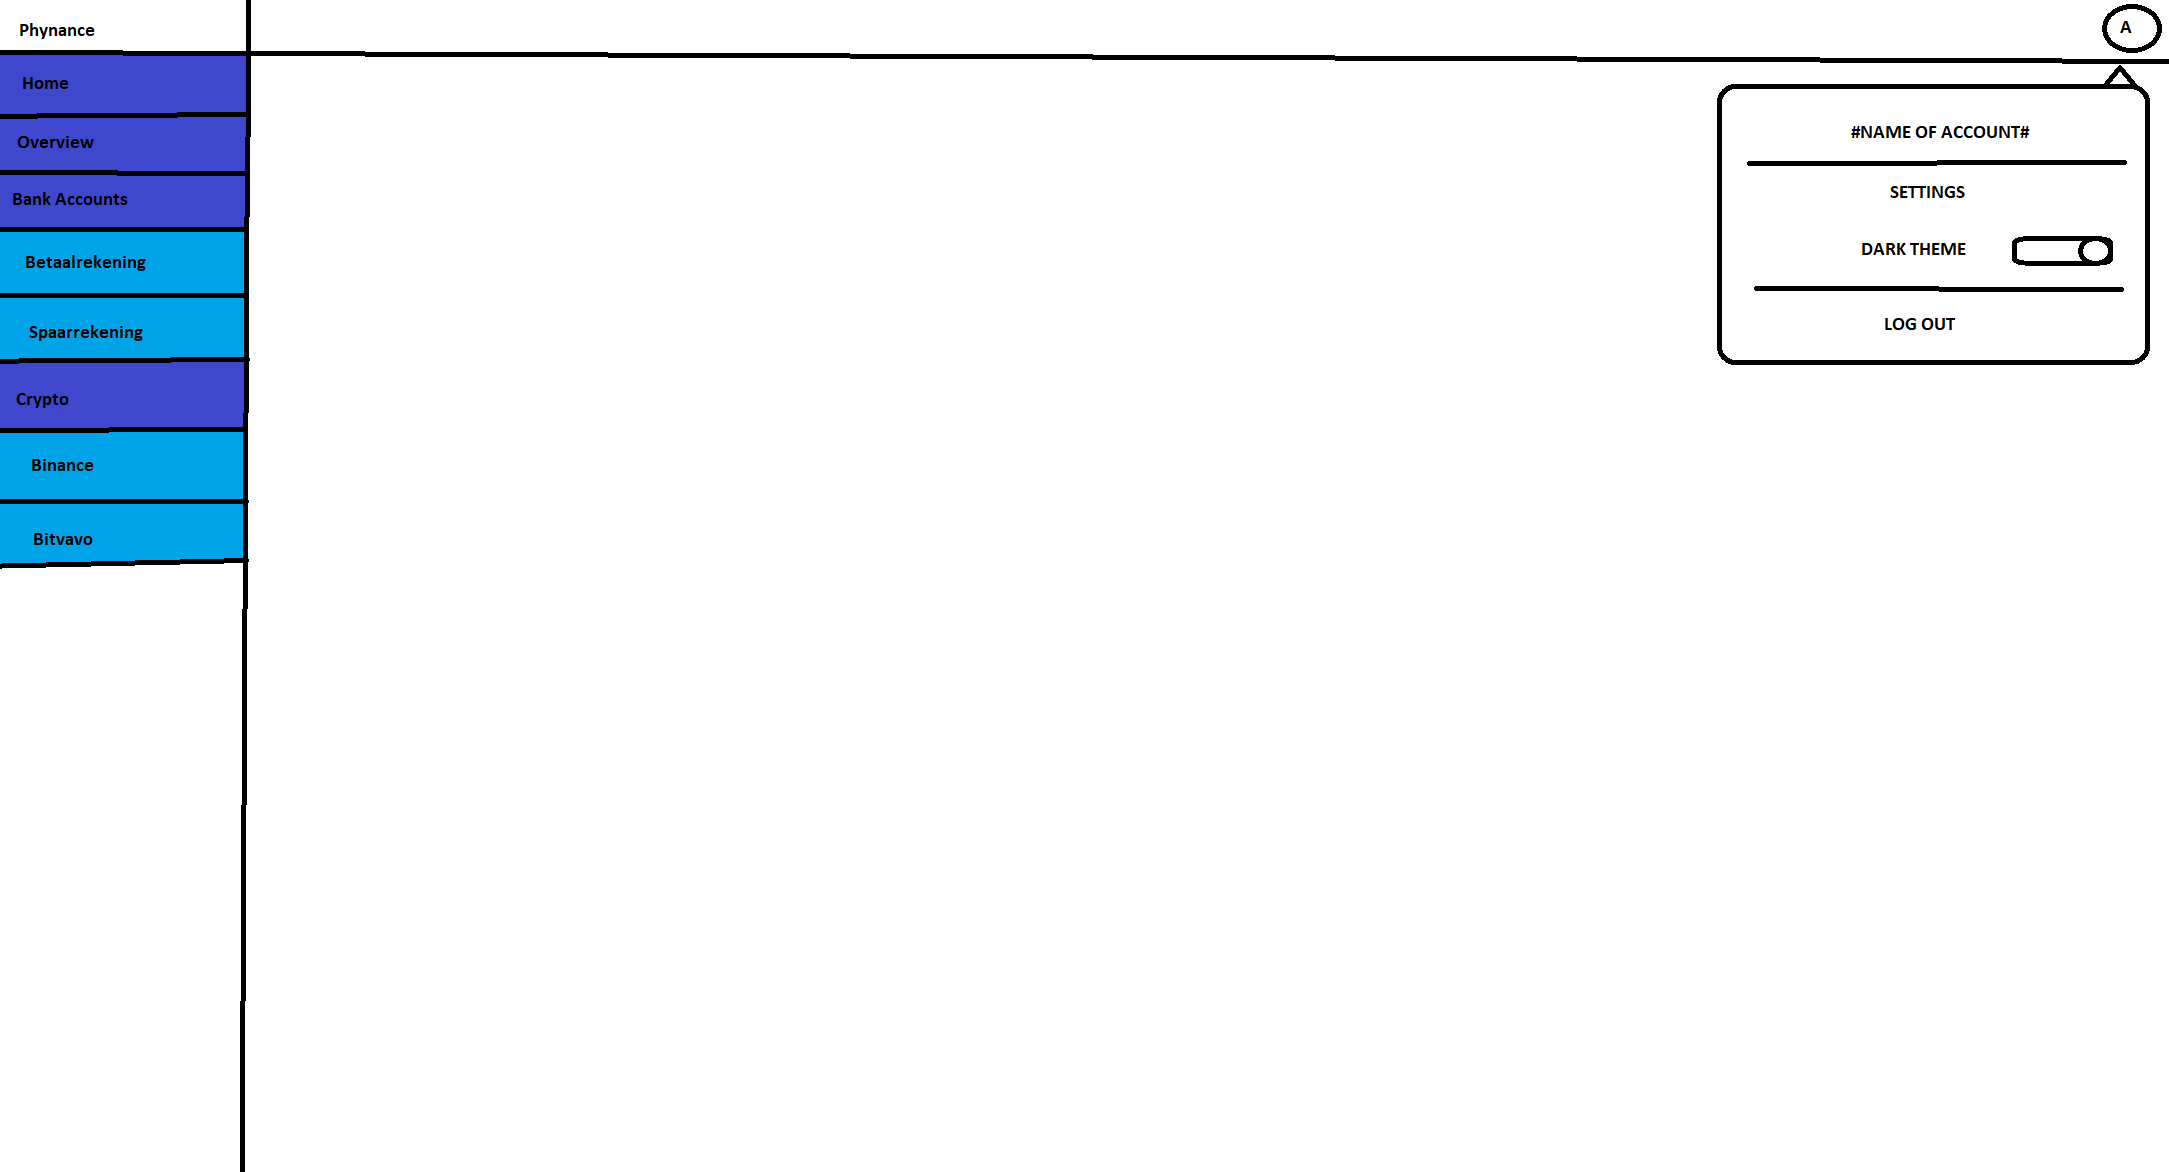
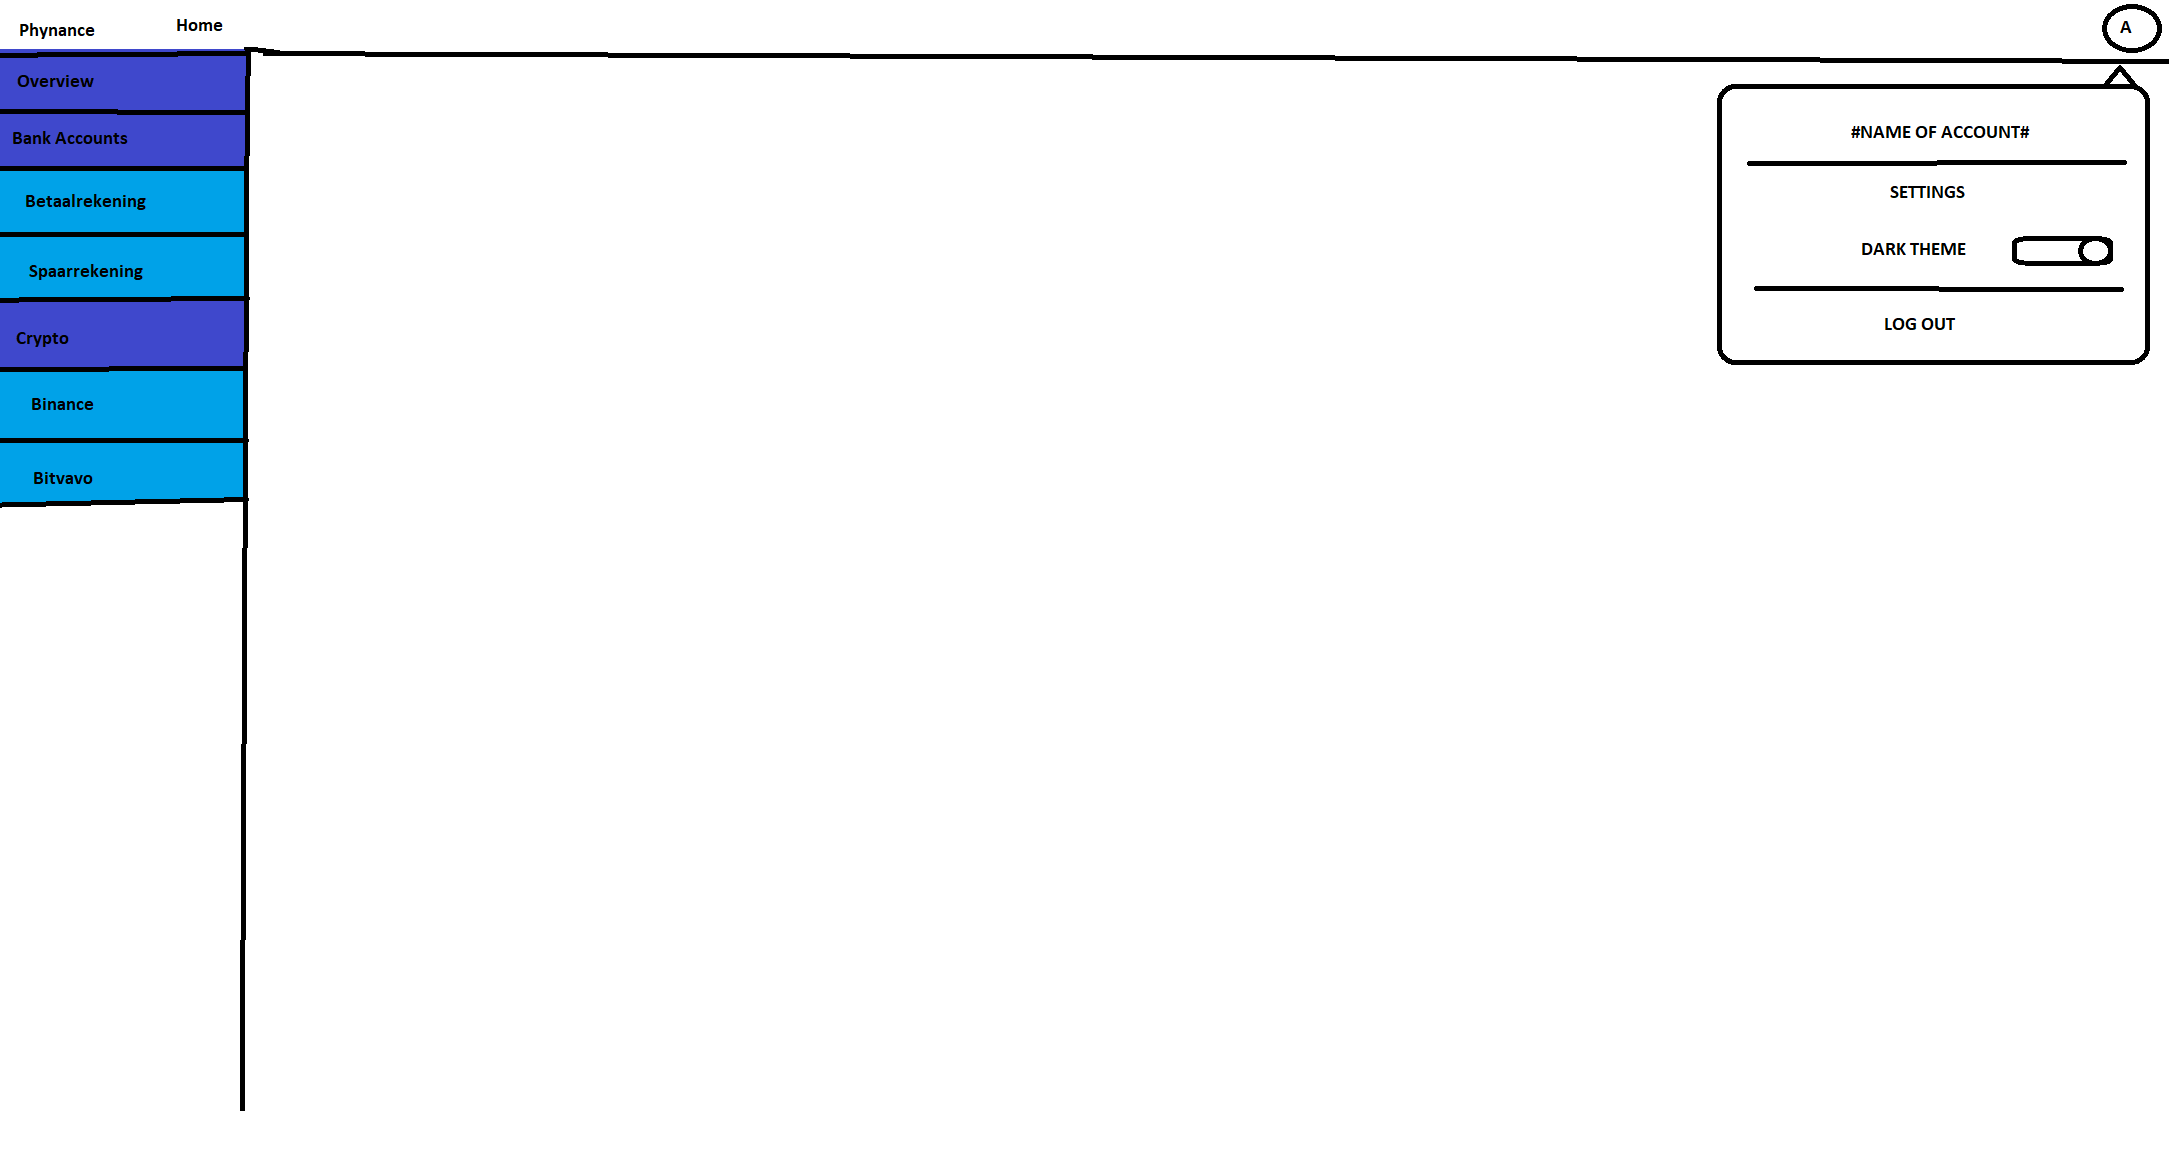
Added TopBar

Changed region(s): [[0.0, 0.0307, 0.1236, 0.4915], [0.0927, 0.0, 0.1236, 0.0614]]

diff --git a/frontend/src/components/topBar.js b/frontend/src/components/topBar.js
@@ -1,0 +1,110 @@
+import {Button, Container, Switch} from "@mui/material";
+import AccountBalanceIcon from '@mui/icons-material/AccountBalance';
+import AccountCircle from '@mui/icons-material/AccountCircle';
+import Menu from '@mui/material/Menu';
+import AppBar from '@mui/material/AppBar';
+import Toolbar from '@mui/material/Toolbar';
+import Typography from '@mui/material/Typography';
+import IconButton from '@mui/material/IconButton';
+import MenuItem from '@mui/material/MenuItem';
+import {useState} from "react";
+import {useNavigate} from "react-router-dom";
+
+function TopBar({ setAuthenticatedCredentials }) {
+    const navigate = useNavigate();
+    const [anchorEl, setAnchorEl] = useState(null);
+
+    const handleMenu = (event) => {
+        setAnchorEl(event.currentTarget);
+    };
+
+    const handleClose = () => {
+        setAnchorEl(null);
+    };
+
+    const openSettings = (event) => {
+        navigate('/settings');
+    }
+
+    const logOut = (event) => {
+        setAuthenticatedCredentials(null);
+        navigate('/login');
+    }
+
+    return (
+        <AppBar position="static">
+            <Container maxWidth="x1">
+                <Toolbar disableGutters>
+                    <AccountBalanceIcon
+                        sx={{ display: { xs: 'none', md: 'flex' }, mr: 1 }}
+                        onClick={(event) => navigate('/home')}
+                        style={{cursor: 'pointer'}}
+                    />
+                    <Typography
+                        variant="h6"
+                        noWrap
+                        component="div"
+                        href="/"
+                        sx={{
+                            flexGrow: 1,
+                            mr: 2,
+                            display: { xs: 'none', md: 'flex' },
+                            fontFamily: 'monospace',
+                            fontWeight: 700,
+                            letterSpacing: '.3rem',
+                            color: 'inherit',
+                            textDecoration: 'none',
+                        }}
+                        onClick={(event) => navigate('/home')}
+                        style={{cursor: 'pointer'}}
+                    >
+                        Phynance
+                    </Typography>
+                    <Button
+                        key="Home"
+                        onClick={(event) => navigate('/home')}
+                        sx={{ flexGrow: 1, mr: 270, my: 2, color: 'white', display: 'block' }}
+                    >
+                        Home
+                    </Button>
+                    <div>
+                        <IconButton
+                            size="large"
+                            aria-label="account of current user"
+                            aria-controls="menu-appbar"
+                            aria-haspopup="true"
+                            onClick={handleMenu}
+                            color="inherit"
+                            >
+                            <AccountCircle />
+                        </IconButton>
+                        <Menu
+                            id="menu-appbar"
+                            anchorEl={anchorEl}
+                            anchorOrigin={{
+                                vertical: 'top',
+                                horizontal: 'right',
+                            }}
+                            keepMounted
+                            transformOrigin={{
+                                vertical: 'top',
+                                horizontal: 'right',
+                            }}
+                            open={Boolean(anchorEl)}
+                            onClose={handleClose}
+                        >
+                            <MenuItem onClick={openSettings}>Settings</MenuItem>
+                            <MenuItem>
+                                <div>Dark Theme</div>
+                                <Switch />
+                            </MenuItem>
+                            <MenuItem onClick={logOut}>Log Out</MenuItem>
+                        </Menu>
+                    </div>
+                </Toolbar>
+            </Container>
+        </AppBar>
+    );
+}
+
+export default TopBar;

diff --git a/frontend/src/App.js b/frontend/src/App.js
@@ -4,33 +4,49 @@ import {useState} from "react";
 import {BrowserRouter as Router, Navigate, Route, Routes} from "react-router-dom"
 import Home from "./components/home";
 import BankAccount from "./components/bankAccount";
+import Sidebar from "./components/sidebar";
+import TopBar from "./components/topBar";
 
 function App() {
-    const [token, setToken] = useState('');
+    const [authenticatedCredentials, setAuthenticatedCredentials] = useState(null);
 
     return (
         <div className="App">
             <Router>
+                {authenticatedCredentials != null ? (
+                    <>
+                        <TopBar
+                            setAuthenticatedCredentials={setAuthenticatedCredentials}
+                        />
+                        <Sidebar />
+                    </>
+                ) : null}
                 <Routes>
                     <Route
                         path="/"
                         element={
-                            token != null && token !== '' ? <Navigate to="/home" /> : <Navigate to="/login" />
+                            authenticatedCredentials != null ? <Navigate to="/home" /> : <Navigate to="/login" />
                         }
                     />
                     <Route
                         path="/login"
                         element={
                             <Login
-                                setToken={setToken}
+                                setAuthenticatedCredentials={setAuthenticatedCredentials}
                             />
+                        }
+                    />
+                    <Route
+                        path="/settings"
+                        element={
+                            <div></div>
                         }
                     />
                     <Route
                         path="/home"
                         element={
                             <Home
-                                token={token}
+                                authenticatedCredentials={authenticatedCredentials}
                             />
                         }
                     />
@@ -38,7 +54,7 @@ function App() {
                         path="/bank_account/:id"
                         element={
                             <BankAccount
-                                token={token}
+                                authenticatedCredentials={authenticatedCredentials}
                             />
                         }
                     />

diff --git a/frontend/src/components/bankAccount.js b/frontend/src/components/bankAccount.js
@@ -2,18 +2,18 @@ import {useNavigate, useParams} from "react-router-dom";
 import {useEffect, useState} from "react";
 import axios from "axios";
 
-function BankAccount({ token }) {
+function BankAccount({ authenticatedCredentials }) {
     const navigate = useNavigate();
     const { id } = useParams();
     const [bankAccount, setBankAccount] = useState({});
 
     useEffect(() => {
-        if (token == null || token === '') {
+        if (authenticatedCredentials == null) {
             navigate('/login');
         } else {
             axios.get('http://localhost:8000/bank_portfolio/bank_accounts/' + id, {
                 headers: {
-                    'Authorization': `token ${token}`,
+                    'Authorization': `token ${authenticatedCredentials.token}`,
                 },
             })
                 .then(response => {
@@ -23,7 +23,7 @@ function BankAccount({ token }) {
                     console.error(error.message);
                 });
         }
-    }, [])
+    }, []) // eslint-disable-line react-hooks/exhaustive-deps
 
     return (
         <div>

diff --git a/frontend/src/components/home.js b/frontend/src/components/home.js
@@ -3,17 +3,17 @@ import {useNavigate} from "react-router-dom";
 import axios from "axios";
 import BankAccountWidget from "./bankAccountWidget";
 
-function Home({ token }) {
+function Home({ authenticatedCredentials }) {
     const navigate = useNavigate();
     const [bankAccounts, setBankAccounts] = useState([]);
 
     useEffect(() => {
-        if (token == null || token === '') {
+        if (authenticatedCredentials == null) {
             navigate('/login');
         } else {
             axios.get('http://localhost:8000/bank_portfolio/bank_accounts/', {
                 headers: {
-                    'Authorization': `token ${token}`,
+                    'Authorization': `token ${authenticatedCredentials.token}`,
                 },
             })
                 .then(response => {
@@ -23,7 +23,7 @@ function Home({ token }) {
                     console.error(error.message);
                 });
         }
-    }, [])
+    }, []) // eslint-disable-line react-hooks/exhaustive-deps
 
     return (
         <div>

diff --git a/frontend/src/components/login.js b/frontend/src/components/login.js
@@ -3,7 +3,7 @@ import {Button, TextField} from "@mui/material";
 import axios from "axios";
 import {useNavigate} from "react-router-dom";
 
-function Login({ setToken }) {
+function Login({ setAuthenticatedCredentials }) {
     const navigate = useNavigate();
 
     const [credentials, setCredentials] = useState({
@@ -14,7 +14,10 @@ function Login({ setToken }) {
     const login = event => {
         axios.post('http://localhost:8000/auth/login/', credentials)
             .then(response => {
-                setToken(response.data.token);
+                setAuthenticatedCredentials({
+                    ...credentials,
+                    token: response.data.token,
+                });
                 navigate('/home');
             })
             .catch(error => {

diff --git a/frontend/src/components/bankAccountWidget.js b/frontend/src/components/bankAccountWidget.js
@@ -1,4 +1,4 @@
-import {Box, Button} from "@mui/material";
+import {Button} from "@mui/material";
 import {useNavigate} from "react-router-dom";
 
 function BankAccountWidget({ id, name }) {

diff --git a/frontend/src/components/sidebar.js b/frontend/src/components/sidebar.js
@@ -1,0 +1,9 @@
+function Sidebar() {
+    return (
+        <div>
+
+        </div>
+    );
+}
+
+export default Sidebar;
